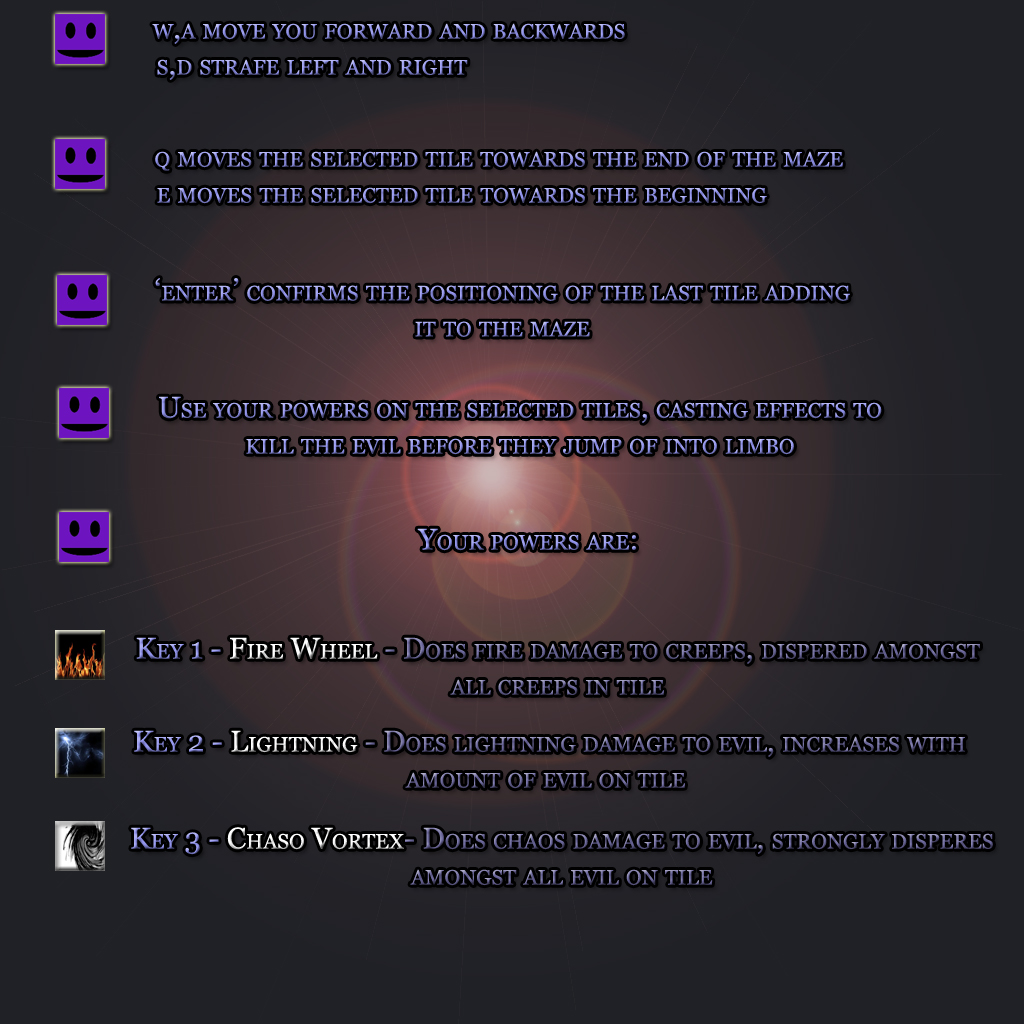
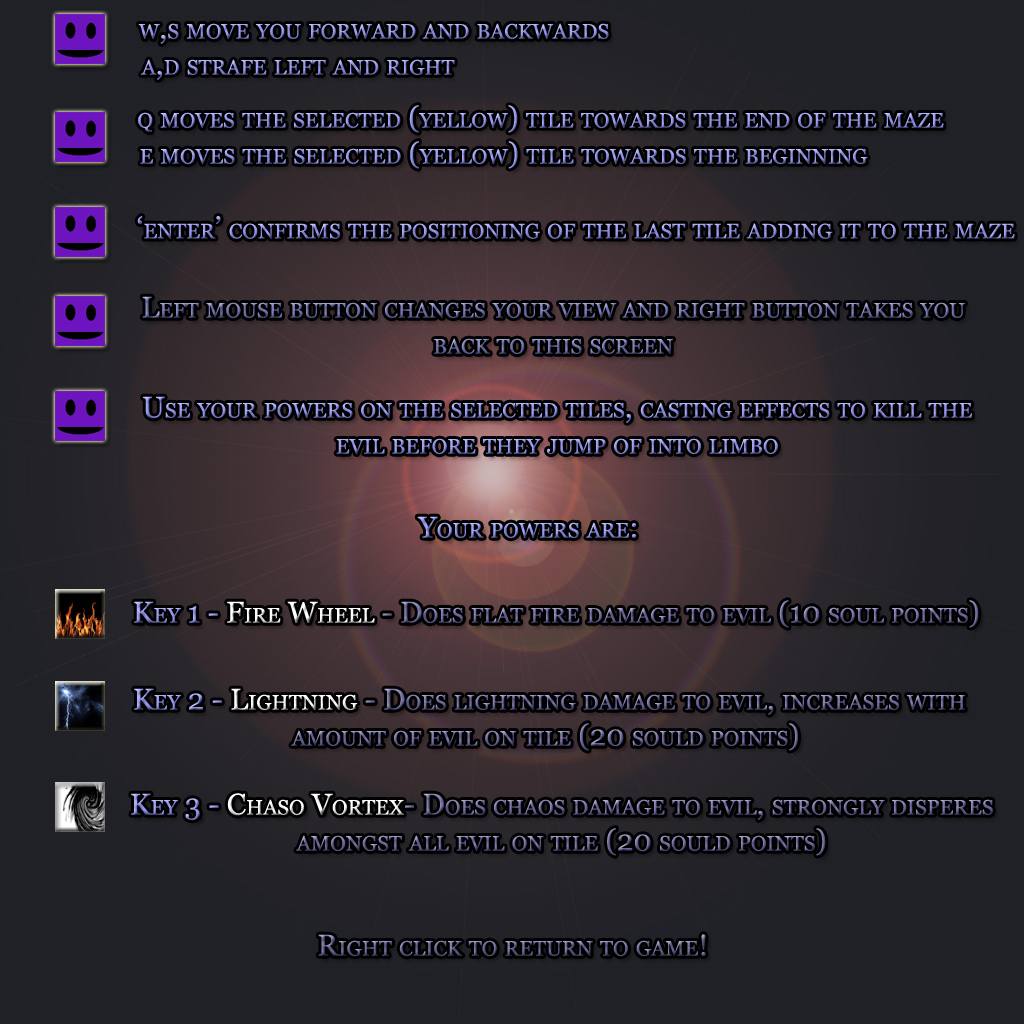
Tweeked the numbers. made the beginning portal a big evil smiley. fixed up instruction screen.

Changed region(s): [[0.0312, 0.0, 1.0, 0.4688], [0.0312, 0.5, 0.9688, 0.875], [0.3125, 0.9062, 0.6875, 0.9375]]

diff --git a/main.cpp b/main.cpp
@@ -110,6 +110,11 @@ float soulPoints = 100.0f;
 //timer for when we give points back
 float soulPointIncrease = 0.0f;
 
+/**
+ * Portal
+ */
+sf::Image portalTexture;
+
 void glInit() {
 #ifdef FRAMEWORK_USE_GLEW
   GLint error = glewInit();
@@ -163,18 +168,20 @@ void init() {
     cerr << simpleShader->errors() << endl;
     exit(-1);
   }
+
   avatar = new Avatar();
   avatar->setShader(particleSystemShader);
 
   camera = new Camera(nearClip, farClip, fov, initWinHeight, initWinWidth);
 
-  mazeString = "ff";
+  mazeString = "ffff";
   turretFactory = new TurretFactory(particleSystemShader);
   maze = new Maze(mazeString, particleSystemShader, turretFactory);
   creepManager = new CreepManager(maze, turretFactory);
   window.ShowMouseCursor(false);
 
   instructionTexture.LoadFromFile("models/instructionscreen.jpg");
+  portalTexture.LoadFromFile("models/creep_opacity_texture1.jpg");
 
   hudText = new OGLFT::Monochrome("fonts/KOMIKAGL.ttf", 24);
 
@@ -357,6 +364,66 @@ void handleInput() {
   }
 }
 
+void renderPortal() {
+  aiVector3D vertices[4] = { aiVector3D(-.5, 1, 0), aiVector3D(.5, 1, 0),
+      aiVector3D(.5, 0, 0), aiVector3D(-.5, 0, 0) };
+  aiVector3D texCoords[4] = { aiVector3D(0, 0, 0), aiVector3D(1, 0, 0),
+      aiVector3D(1, 1, 0), aiVector3D(0, 1, 0) };
+  unsigned int vertexIndex[4] = { 0, 1, 2, 3 };
+
+  GLint oldId;
+  glGetIntegerv(GL_CURRENT_PROGRAM, &oldId);
+  GL_CHECK(glUseProgram(simpleShader->programID()));
+
+  GLint positionIn = glGetAttribLocation(simpleShader->programID(),
+      "positionIn");
+  GLint texId = glGetAttribLocation(simpleShader->programID(), "texCoordIn");
+  GLint texture = glGetUniformLocation(simpleShader->programID(), "texture");
+  GLint textureFlag = glGetUniformLocation(simpleShader->programID(),
+      "texturing");
+
+  if (positionIn == -1) {
+    cerr << "Error getting position handle for instructions." << endl;
+  }
+
+  if (texId == -1) {
+    cerr << "Error getting texture coords handle for instructions." << endl;
+  }
+
+  if (texture == -1) {
+    cerr << "Error getting texture handle for instructions." << endl;
+  }
+
+  if (textureFlag == -1) {
+    cerr << "Error getting texturing flag for instructions." << endl;
+  }
+
+  GL_CHECK(glEnableVertexAttribArray(positionIn));
+  GL_CHECK(glEnableVertexAttribArray(texId));
+
+  glUniform1f(textureFlag, 1.0f);
+
+  glUniform1i(texture, 0);
+  glActiveTexture(GL_TEXTURE0);
+  portalTexture.Bind();
+
+  GL_CHECK(
+      glVertexAttribPointer(positionIn, 3, GL_FLOAT, 0, sizeof(aiVector3D),
+          &vertices[0]));
+  GL_CHECK(
+      glVertexAttribPointer(texId, 3, GL_FLOAT, 0, sizeof(aiVector3D),
+          &texCoords[0]));
+
+  GL_CHECK(
+      glDrawElements(GL_QUADS, 4, GL_UNSIGNED_INT,
+          &vertexIndex[0]));
+
+  GL_CHECK(glDisableVertexAttribArray(positionIn));
+  GL_CHECK(glDisableVertexAttribArray(texId));
+
+  GL_CHECK(glUseProgram(oldId));
+}
+
 void renderScene() {
   camera->posCameraSetupView();
 
@@ -366,16 +433,7 @@ void renderScene() {
 
   glClear(GL_COLOR_BUFFER_BIT | GL_DEPTH_BUFFER_BIT);
 
-  glPushMatrix();
-  //Debugging triangle. This helps me not get lost in the scene :D
-  glColor4f(.23, .25, .9, .1);
-  glBegin(GL_TRIANGLES);
-  glVertex3f(-.5, 0, 0);
-  glVertex3f(.5, 0, 0);
-  glVertex3f(0, .5, 0);
-  glEnd();
-
-  glPopMatrix();
+  renderPortal();
   maze->render(window.GetFrameTime());
   creepManager->renderCreeps(window.GetFrameTime());
   avatar->render(window.GetFrameTime());
@@ -465,11 +523,11 @@ void updateScores(float framerate) {
   numCreepsEscaped += creepManager->getNumEscapedCreeps();
   numCreepsDead += newDead;
 
-  soulPoints += newDead*10;
-  soulPointIncrease += 10*framerate;
+  soulPoints += newDead * 10;
+  soulPointIncrease += 10 * framerate;
 
   if (soulPointIncrease > 10.0f) {
-    soulPoints += 3;
+    soulPoints += 1;
     soulPointIncrease = 0.0f;
   }
 
@@ -491,11 +549,12 @@ void updateScores(float framerate) {
 
   //figure out our text
   stringstream formatter;
-  formatter << "Evil killed: "<<numCreepsDead<<" Evil escaped: "<<numCreepsEscaped<<endl;
+  formatter << "Evil killed: " << numCreepsDead << " Evil escaped: "
+      << numCreepsEscaped << endl;
   hudText->draw(-1, -1, formatter.str().c_str());
 
   stringstream formatter2;
-  formatter2<<"Soul points: "<<soulPoints<<endl;
+  formatter2 << "Soul points: " << soulPoints << endl;
   hudText->draw(-1, -.8, formatter2.str().c_str());
   //Get the hell out of here and pretend I never wrote such hacky crap...
   GL_CHECK(glUseProgram(oldId));

diff --git a/CreepManager.cpp b/CreepManager.cpp
@@ -31,7 +31,7 @@ void CreepManager::updateTime(float framerate) {
   nextCreepTime -= framerate * 10.0f;
 
   if (numCreepsMade % 10 == 0){
-    health += 5;
+    health += 2;
   }
 }
 
